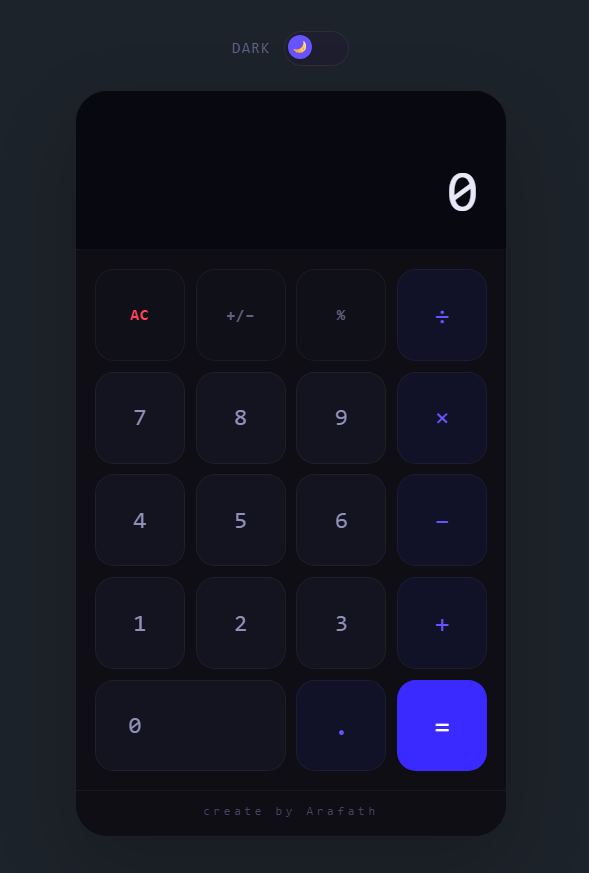
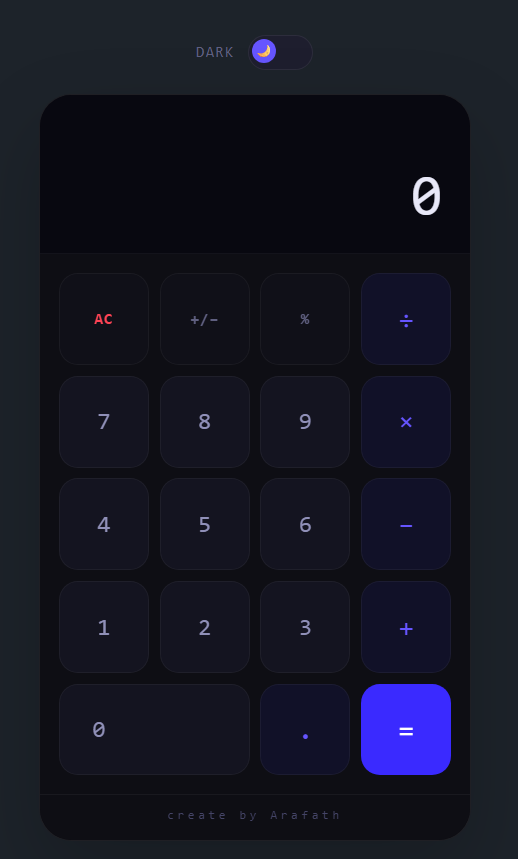
Update README with new portfolio and LinkedIn links; add dark and light theme images

diff --git a/readme.md b/readme.md
@@ -30,8 +30,6 @@ A clean, modern, and interactive **Basic Calculator** built with **HTML, CSS, an
   </tr>
 </table>
 
-> Replace `YOUR_SCREENSHOT_URL` with your calculator screenshot after uploading it to the repository.
-
 ---
 
 ## ✨ Features
@@ -239,9 +237,9 @@ Possible improvements for future versions:
 
 **Junior Web Developer | Front-End & MERN Stack Developer**
 
-* 🌐 Portfolio: `YOUR_PORTFOLIO_URL`
-* 💼 LinkedIn: `YOUR_LINKEDIN_URL`
-* 🐙 GitHub: `YOUR_GITHUB_URL`
+* 🌐 Portfolio: `https://rs-arafath.vercel.app/`
+* 💼 LinkedIn: `https://www.linkedin.com/in/rs-arafath`
+
 
 ---
 
